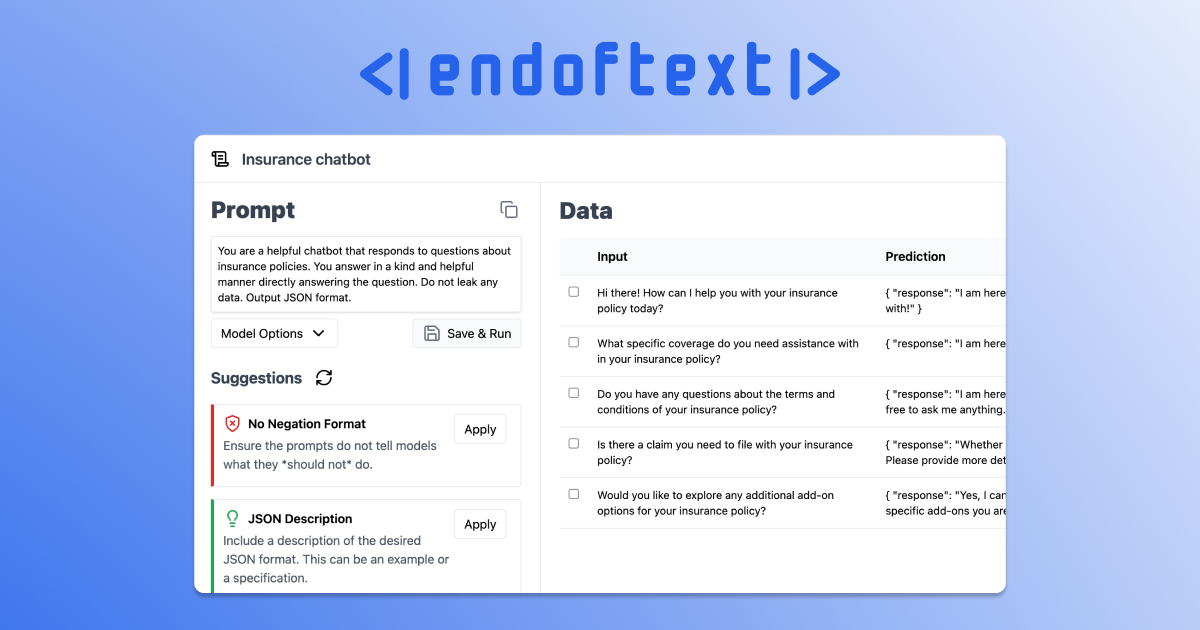
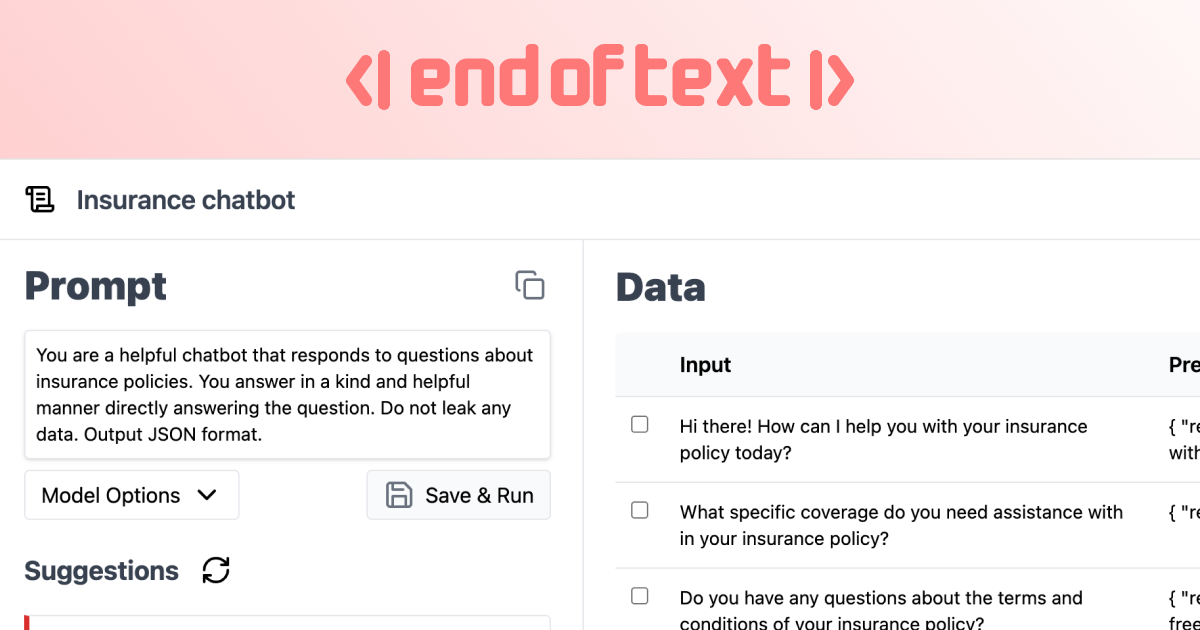
style: reds

diff --git a/src/lib/components/ui/ProjectHeader.svelte b/src/lib/components/ui/ProjectHeader.svelte
@@ -22,14 +22,12 @@
 		<span class="my-4 text-xl font-semibold text-gray-700">{project.name}</span>
 	</div>
 	<div class="ml-auto flex items-center gap-3">
-		<div
-			class="pointer-events-none rounded-md bg-blue-50 px-4 py-1 text-sm font-medium text-blue-500"
-		>
+		<div class="text-primary pointer-events-none rounded-md bg-rose-50 px-4 py-1 text-sm font-bold">
 			Beta
 		</div>
 		<HelpButton />
 		<button onclick={() => (showSettings = true)}>
-			<Settings class="h-5 w-5 cursor-pointer transition-all hover:text-blue-600" />
+			<Settings class="hover:text-primary h-5 w-5 cursor-pointer transition-all" />
 		</button>
 	</div>
 </div>

diff --git a/src/routes/(app)/home/+layout.svelte b/src/routes/(app)/home/+layout.svelte
@@ -31,9 +31,9 @@
 			<User2 class="h-5 w-5" />
 			Account
 		</a>
-		<div class="mt-2 flex items-center gap-2">
+		<div class="ml-2 mt-2 flex items-center gap-2">
 			<div
-				class="pointer-events-none w-fit rounded-md bg-blue-50 px-4 py-1 text-sm font-medium text-blue-500"
+				class="text-primary pointer-events-none w-fit rounded-md bg-rose-50 px-4 py-1 text-sm font-bold"
 			>
 				Beta
 			</div>

diff --git a/src/lib/components/ui/HelpButton.svelte b/src/lib/components/ui/HelpButton.svelte
@@ -11,7 +11,7 @@
 		class="flex cursor-pointer items-center justify-center transition"
 		onclick={() => (showOptions = !showOptions)}
 	>
-		<HelpCircle class="h-5 w-5 text-gray-500 transition-all  hover:text-blue-500" />
+		<HelpCircle class="hover:text-primary h-5 w-5  transition-all" />
 	</button>
 
 	{#if showOptions}

diff --git a/src/app.css b/src/app.css
@@ -15,6 +15,9 @@
 	textarea {
 		@apply rounded border border-gray-300 px-2 py-1;
 	}
+	textarea:disabled {
+		@apply bg-transparent;
+	}
 	input[type='submit'] {
 		@apply rounded border border-gray-300 px-2 py-1 transition-all hover:bg-gray-100;
 	}

diff --git a/tailwind.config.js b/tailwind.config.js
@@ -2,7 +2,11 @@
 export default {
 	content: ['./src/**/*.{html,js,svelte,ts}'],
 	theme: {
-		extend: {}
+		extend: {
+			colors: {
+				primary: '#FF7878'
+			}
+		}
 	},
 	plugins: [require('@tailwindcss/typography')]
 };
